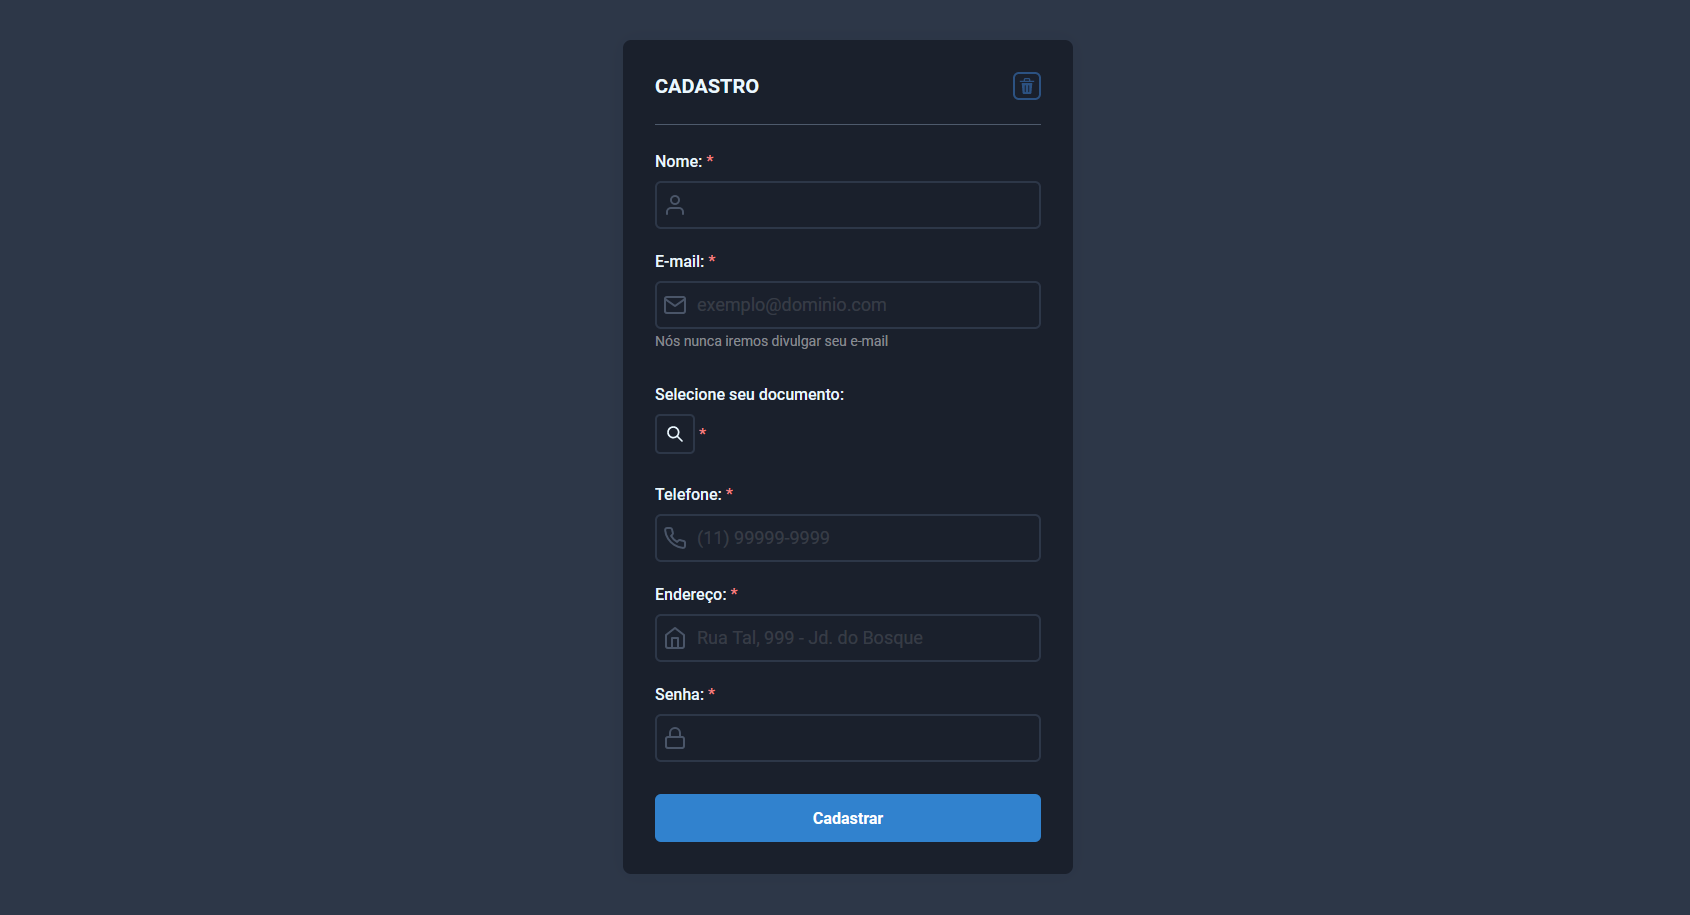
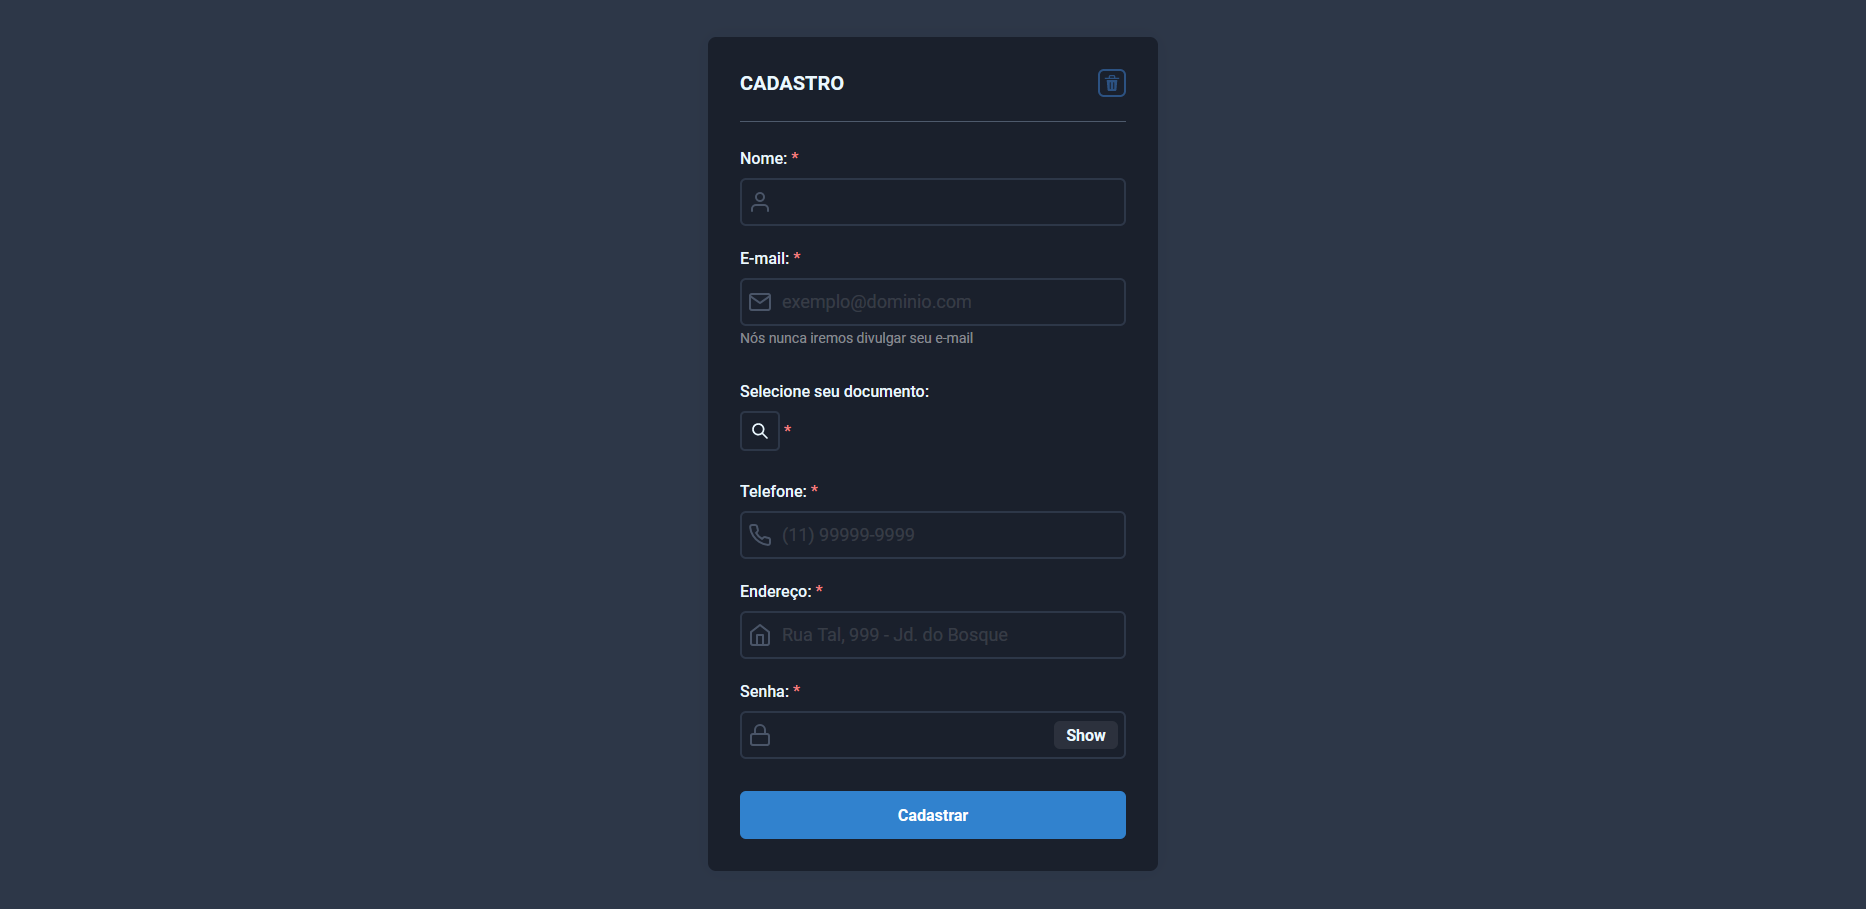
✨Done! - show/hide password feature, refactored & commentted

Changed region(s): [[0.3692, 0.0308, 0.6462, 0.9549], [0.4923, 0.6777, 0.5231, 0.7085]]

diff --git a/components/Form/Input.tsx b/components/Form/Input.tsx
@@ -1,12 +1,21 @@
-import { Dispatch, SetStateAction, useCallback, useEffect, useRef, useState } from 'react';
+import {
+  Dispatch,
+  SetStateAction,
+  useCallback,
+  useEffect,
+  useRef,
+  useState,
+} from 'react';
 import {
   FormControl as ChakraFormControl,
   FormLabel as ChakraFormLabel,
   FormHelperText as ChakraFormHelperText,
+  Button as ChakraButton,
   Input as ChakraInput,
   InputProps as ChakraInputProps,
   InputGroup as ChakraInputGroup,
   InputLeftElement as ChakraInputLeftElement,
+  InputRightElement as ChakraInputRightElement,
   Icon as ChakraIcon,
 } from '@chakra-ui/react';
 import { IconBaseProps as IconProps } from 'react-icons';
@@ -42,6 +51,7 @@ export const Input: React.FC<InputProps> = ({
   const inputRef = useRef<HTMLInputElement>(null);
   const [isFilled, setIsFilled] = useState(false);
   const [isInvalid, setIsInvalid] = useState(false);
+  const [passwordShow, setPasswordShow] = useState(false);
   const { fieldName, defaultValue, error, registerField } = useField(name);
 
   const handleInputBlur = useCallback(() => {
@@ -57,8 +67,13 @@ export const Input: React.FC<InputProps> = ({
     }
   }, []);
 
+  const handlePasswordShowToggle = useCallback(() => {
+    setPasswordShow(!passwordShow);
+  }, [passwordShow]);
+
+  // ▼ Unform register field
   useEffect(() => {
-    if (name !== 'document')
+    if (type !== 'file')
       registerField({
         name: fieldName,
         ref: inputRef.current,
@@ -72,6 +87,7 @@ export const Input: React.FC<InputProps> = ({
       });
   }, [fieldName, registerField]);
 
+  // ▼ States cleared when form reset
   useEffect(() => {
     if (cleared) {
       setIsFilled(false);
@@ -88,44 +104,74 @@ export const Input: React.FC<InputProps> = ({
     type,
     pattern,
     ref: inputRef,
+    defaultValue: defaultValue,
     onBlur: handleInputBlur,
     _hover: {
       borderColor: 'gray.400',
     },
   };
 
+  const inputFileProps = {
+    $ref: inputRef,
+    name,
+    isInvalidFile,
+    setIsInvalidFile,
+    cleared,
+  };
+
   return (
     <ChakraFormControl
       id={name}
+      // ▼ When input is required or invalid, set the Chakra Form Control
       {...(isRequired && { isRequired })}
       {...(isInvalid && { isInvalid })}
     >
+      {/* ▼ With label */}
       {!!label && <ChakraFormLabel>{label}</ChakraFormLabel>}
-      {!!Icon && type !== 'file' ? (
+
+      {/* ▼ Not file type input */}
+      {type !== 'file' ? (
         <ChakraInputGroup>
-          <ChakraInputLeftElement
-            h="100%"
-            pointerEvents="none"
-            children={
-              <ChakraIcon
-                color={isFilled ? 'blue.400' : 'gray.600'}
-                as={Icon}
-                boxSize={6}
-              />
-            }
+          {/* ▼ With Icon */}
+          {!!Icon && (
+            <ChakraInputLeftElement
+              h="100%"
+              pointerEvents="none"
+              children={
+                <ChakraIcon
+                  color={isFilled ? 'blue.400' : 'gray.600'}
+                  as={Icon}
+                  boxSize={6}
+                />
+              }
+            />
+          )}
+          <ChakraInput
+            {...inputProps}
+            {...rest}
+            {...(type === 'password' && {
+              type: passwordShow ? 'text' : 'password',
+            })}
           />
-          <ChakraInput {...inputProps} {...rest} />
+          {/* ▼ When password type, puts this right element */}
+          {type === 'password' && (
+            <ChakraInputRightElement w={20} h="full" px={2}>
+              <ChakraButton
+                h={7}
+                size="lg"
+                fontSize="md"
+                onClick={handlePasswordShowToggle}
+              >
+                {passwordShow ? 'Hide' : 'Show'}
+              </ChakraButton>
+            </ChakraInputRightElement>
+          )}
         </ChakraInputGroup>
-      ) : type === 'file' ? (
-        <FileInput
-          $ref={inputRef}
-          name={name}
-          isInvalidFile={isInvalidFile}
-          setIsInvalidFile={setIsInvalidFile}
-          cleared={cleared}
-        />
       ) : (
-        <ChakraInput {...inputProps} {...rest} />
+        type === 'file' && (
+          // ▼ File type input
+          <FileInput {...inputFileProps} {...rest} />
+        )
       )}
       {!!helperText && (
         <ChakraFormHelperText mt={1}>{helperText}</ChakraFormHelperText>

diff --git a/components/Form/Input/FileInput.tsx b/components/Form/Input/FileInput.tsx
@@ -11,16 +11,18 @@ import {
   FormLabel,
   Text as ChakraText,
   useTheme,
+  InputProps as ChakraInputProps,
 } from '@chakra-ui/react';
 import { SearchIcon } from '@chakra-ui/icons';
 
-interface FileInputProps {
+type FileInputProps = {
   name: string;
+  required?: boolean;
   cleared?: boolean;
   isInvalidFile: boolean | undefined;
   setIsInvalidFile: Dispatch<SetStateAction<boolean>> | undefined;
   $ref: RefObject<HTMLInputElement>;
-}
+} & ChakraInputProps;
 
 interface Document {
   blob: string;
@@ -38,24 +40,29 @@ export const FileInput: React.FC<FileInputProps> = ({
   isInvalidFile,
   setIsInvalidFile,
   cleared = false,
+  ...rest
 }) => {
   const [doc, setDoc] = useState<Document | null>(null);
 
   const handleDocumentChange = useCallback(({ target }) => {
-    setDoc({
-      blob: window.URL.createObjectURL(target.files[0]),
-      file: target.files[0],
-    });
-    console.log({
-      blob: window.URL.createObjectURL(target.files[0]),
-      file: target.files[0],
-    });
+    if (target.files.length) {
+      const newDoc = {
+        blob: window.URL.createObjectURL(target.files[0]),
+        file: target.files[0],
+      };
+      setDoc(newDoc);
+      console.log(newDoc);
+    } else {
+      setDoc(null);
+    }
   }, []);
 
+  // ▼ When doc has value (files), set as valid
   useEffect(() => {
     if (doc && setIsInvalidFile) setIsInvalidFile(false);
   }, [doc]);
 
+  // ▼ States cleared when form reset
   useEffect(() => {
     if (cleared) {
       setDoc(null);
@@ -101,12 +108,15 @@ export const FileInput: React.FC<FileInputProps> = ({
         style={{ display: 'none' }}
         id={name}
         ref={$ref}
+        accept={rest.accept}
       />
+      {/* ▼ When file loaded */}
       {doc?.file?.name && (
         <ChakraText as="i" d="block" fontSize="xs" mb={3} fontWeight="medium">
           {doc.file.name}
         </ChakraText>
       )}
+      {/* ▼ When invalid */}
       {isInvalidFile && (
         <ChakraText
           color="red.400"
